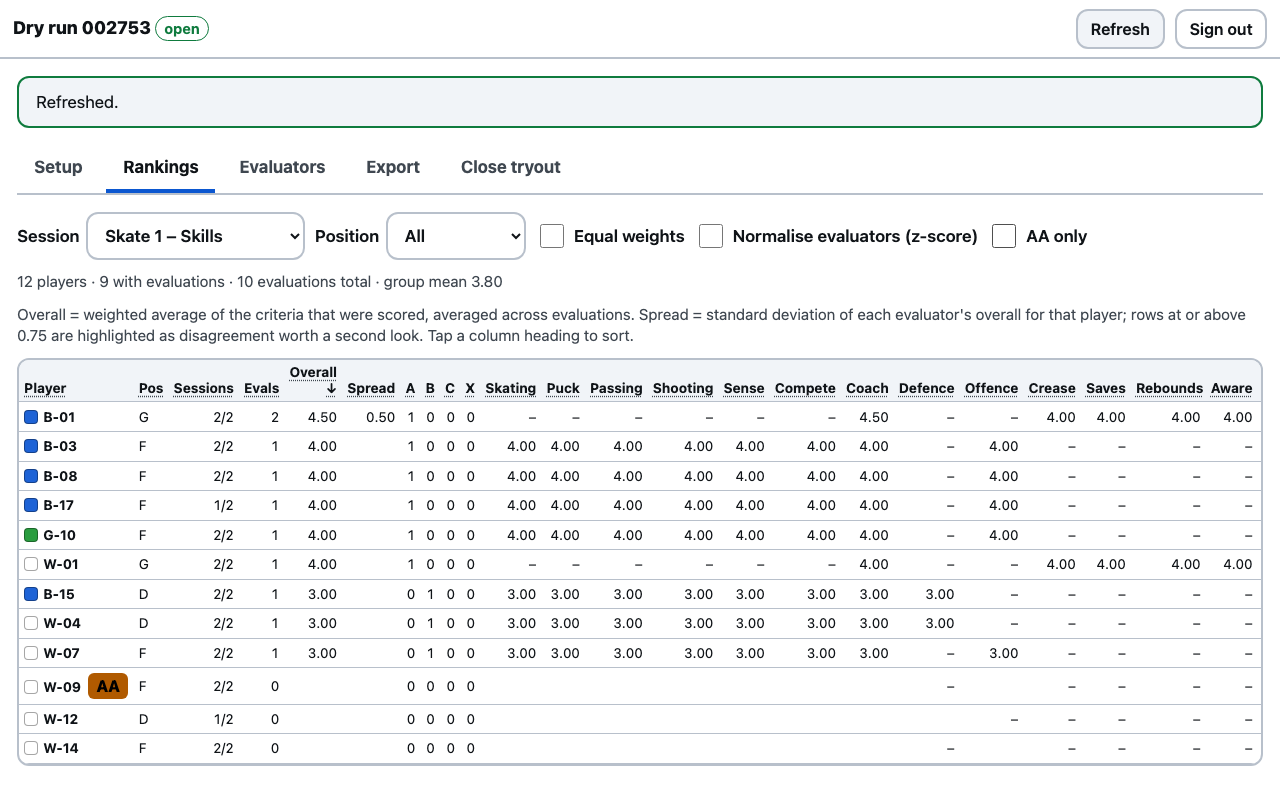
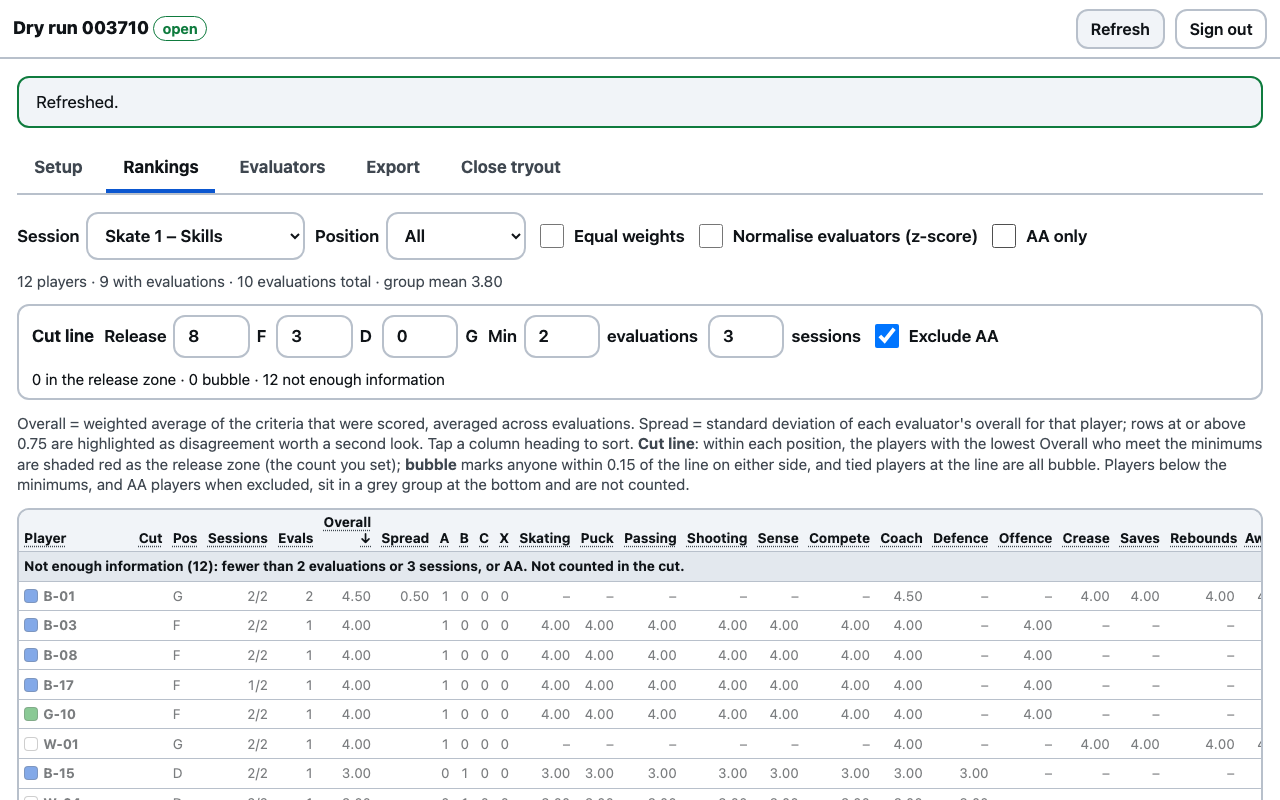
Rankings: cut line with release zone, bubble and minimums
Release counts per position (default 8 F / 3 D / 0 G), minimums of 2
evaluations and 3 sessions, AA excluded by default. Eligible players are
ranked by Overall within position; the lowest N are shaded as the release zone
with a line drawn above it for a single-position, Overall-sorted view. Players
within 0.15 of the line are bubble; a tie straddling the line is never split
(all tied stay keep + bubble, summary says so). Ineligible players sit in a
'Not enough information' group and are not counted. Rankings CSV gains a cut
column and records the settings. Settings remembered per browser.

Changed region(s): [[0.0, 0.375, 1.0, 1.0], [0.0938, 0.0312, 0.1562, 0.0625], [0.875, 0.8125, 0.9062, 0.8438]]

diff --git a/web/js/admin.js b/web/js/admin.js
@@ -28,6 +28,7 @@ const state = {
   evaluators: [],
   openTeam: null,
   rank: { sessionId: "all", position: "all", equalWeights: false, normalize: false, taggedOnly: false, sortKey: "overall", sortDir: "desc" },
+  cut: { F: 8, D: 3, G: 0, minEvals: 2, minSessions: 3, excludeAA: true },
   attendSessionId: null,
   view: { evaluatorId: null, sessionId: "all" },
   showInactive: false,
@@ -804,11 +805,56 @@ async function deleteEvaluator(e) {
 }
 
 // ----------------------------------------------------------------------------- Rankings
+const BUBBLE_MARGIN = 0.15;
+
+/**
+ * Cut line per position. Eligible = meets the minimums (and not AA when excluded) with an Overall.
+ * The lowest `cut[pos]` eligible players are "release"; others "keep". Anyone within BUBBLE_MARGIN of the
+ * line, and every player tied at the line, is "bubble". Sets r.cut, r.bubble, r.eligible on each row.
+ */
+function applyCut(rows) {
+  const c = state.cut;
+  const summary = { line: {}, release: 0, bubble: 0, insufficient: 0 };
+  for (const r of rows) {
+    r.eligible = r.overall !== null && r.n >= c.minEvals && r.attended >= c.minSessions && !(c.excludeAA && r.tag);
+    r.cut = r.eligible ? "keep" : "insufficient";
+    r.bubble = false;
+    if (!r.eligible) summary.insufficient += 1;
+  }
+  for (const pos of ["F", "D", "G"]) {
+    const n = Number(c[pos]) || 0;
+    const list = rows.filter((r) => r.eligible && r.position === pos).sort((a, b) => a.overall - b.overall); // lowest first
+    if (!n || !list.length) continue;
+    let count = Math.min(n, list.length);
+    let tiedAtLine = 0;
+    // A tie that straddles the line is never split by the app: those players stay "keep" and are all bubble.
+    if (list[count] && list[count].overall === list[count - 1].overall) {
+      const tieValue = list[count - 1].overall;
+      count = list.filter((r) => r.overall < tieValue).length;
+      tiedAtLine = list.filter((r) => r.overall === tieValue).length;
+    }
+    const releaseMax = count ? list[count - 1].overall : null;
+    const keepMin = list[count] ? list[count].overall : null;
+    const line = releaseMax === null ? keepMin : keepMin === null ? releaseMax : (releaseMax + keepMin) / 2;
+    summary.line[pos] = line;
+    if (tiedAtLine) summary.tied = (summary.tied || 0) + tiedAtLine;
+    list.forEach((r, i) => {
+      r.cut = i < count ? "release" : "keep";
+      const tied = tiedAtLine > 0 && r.overall === keepMin;
+      r.bubble = tied || Math.abs(r.overall - line) <= BUBBLE_MARGIN;
+      if (r.cut === "release") summary.release += 1;
+      if (r.bubble) summary.bubble += 1;
+    });
+  }
+  return summary;
+}
+
 function rankColumns(position) {
   const crits = position === "all" ? CRITERIA : criteriaFor(position);
   // Overall, spread and tier votes first so they are visible without horizontal scrolling; criteria after.
   return [
     { key: "playerNumber", label: "Player", num: false },
+    { key: "cut", label: "Cut", num: false },
     { key: "position", label: "Pos", num: false },
     { key: "attended", label: "Sessions", num: true },
     { key: "n", label: "Evals", num: true },
@@ -845,12 +891,30 @@ function renderRankings() {
     tr.append(th);
   }
   head.append(tr);
-  const sorted = sortRows(rows, state.rank.sortKey, state.rank.sortDir);
+  const cutSummary = applyCut(rows);
+  const sortedAll = sortRows(rows, state.rank.sortKey, state.rank.sortDir);
+  // Eligible players first (in the chosen order), then the not-enough-information group.
+  const sorted = [...sortedAll.filter((r) => r.eligible), ...sortedAll.filter((r) => !r.eligible)];
+  let lineDrawn = false;
+  let groupHeaderDone = false;
   for (const r of sorted) {
-    const row = el("tr", { class: r.spread !== null && r.spread >= SPREAD_THRESHOLD ? "disagree" : "" });
+    if (!r.eligible && !groupHeaderDone) {
+      groupHeaderDone = true;
+      body.append(el("tr", { class: "group-row" }, el("td", { colspan: cols.length }, `Not enough information (${cutSummary.insufficient}): fewer than ${state.cut.minEvals} evaluations or ${state.cut.minSessions} sessions${state.cut.excludeAA ? ", or AA" : ""}. Not counted in the cut.`)));
+    }
+    const cls = [r.spread !== null && r.spread >= SPREAD_THRESHOLD ? "disagree" : "", r.cut === "release" ? "release" : "", r.eligible ? "" : "insufficient"];
+    // Heavy line above the first release row when the table is sorted by Overall (high to low) for one position.
+    if (!lineDrawn && r.cut === "release" && state.rank.position !== "all" && state.rank.sortKey === "overall" && state.rank.sortDir === "desc") { cls.push("cut-line"); lineDrawn = true; }
+    const row = el("tr", { class: cls.filter(Boolean).join(" ") });
     for (const c of cols) {
       let v = getPath(r, c.key);
       let text;
+      if (c.key === "cut") {
+        const cell = el("td", {});
+        if (r.eligible) cell.append(el("span", { class: `pill ${r.cut}` }, r.cut));
+        if (r.bubble) cell.append(el("span", { class: "pill bubble", style: "margin-left:.3rem" }, "bubble"));
+        row.append(cell); continue;
+      }
       if (c.key === "playerNumber") { row.append(el("td", {}, el("span", { class: "swatch", style: `background:${swatchColour(r.colour)}` }), el("b", {}, r.playerNumber), r.tag ? el("span", { class: "tagpill", style: "margin-left:.4rem" }, r.tag) : null)); continue; }
       if (c.key === "attended") { row.append(el("td", { class: "num" }, `${r.attended}/${r.sessionsTotal}`)); continue; }
       if (c.crit) text = criteriaFor(r.position).some((x) => x.key === c.crit) ? fmt(v) : "–";
@@ -863,6 +927,21 @@ function renderRankings() {
   if (!sorted.length) body.append(el("tr", {}, el("td", { colspan: cols.length, class: "muted" }, "No active players.")));
   const evaluated = rows.filter((r) => r.n > 0).length;
   $("rSummary").textContent = `${rows.length} players · ${evaluated} with evaluations · ${state.evals.length} evaluations total · group mean ${fmt(stats.group.mean)}`;
+  const lines = Object.entries(cutSummary.line).map(([pos, v]) => `${pos} ${fmt(v)}`).join(" · ");
+  $("cutSummary").textContent = `${cutSummary.release} in the release zone${lines ? ` · line at ${lines}` : ""} · ${cutSummary.bubble} bubble${cutSummary.tied ? ` (${cutSummary.tied} tied at the line, not released: decide these)` : ""} · ${cutSummary.insufficient} not enough information`;
+}
+
+// Cut controls (remembered on this browser)
+const CUT_KEY = "ui:cut";
+try { Object.assign(state.cut, JSON.parse(localStorage.getItem(CUT_KEY) || "{}")); } catch { /* ignore */ }
+for (const [id, key, kind] of [["cutF", "F", "n"], ["cutD", "D", "n"], ["cutG", "G", "n"], ["cutMinEvals", "minEvals", "n"], ["cutMinSessions", "minSessions", "n"], ["cutExcludeAA", "excludeAA", "b"]]) {
+  const inp = $(id);
+  if (kind === "b") inp.checked = !!state.cut[key]; else inp.value = String(state.cut[key]);
+  inp.addEventListener(kind === "b" ? "change" : "input", () => {
+    state.cut[key] = kind === "b" ? inp.checked : Math.max(0, Number(inp.value) || 0);
+    try { localStorage.setItem(CUT_KEY, JSON.stringify(state.cut)); } catch { /* ignore */ }
+    renderRankings();
+  });
 }
 
 for (const [id, key] of [["rSession", "sessionId"], ["rPosition", "position"]]) {
@@ -939,14 +1018,16 @@ const today = () => new Date().toISOString().slice(0, 10);
 function rankingsCsv() {
   const { rows } = computeRankings();
   const crits = state.rank.position === "all" ? CRITERIA : criteriaFor(state.rank.position);
-  const header = ["player_number", "colour", "number", "position", "tag", "sessions_attended", "sessions_total", "evaluations", "evaluators",
+  applyCut(rows);
+  const header = ["player_number", "cut", "colour", "number", "position", "tag", "sessions_attended", "sessions_total", "evaluations", "evaluators",
     ...crits.map((c) => `avg_${c.key}`), "overall", "tier_A", "tier_B", "tier_C", "tier_X", "spread"];
   const sorted = sortRows(rows, state.rank.sortKey, state.rank.sortDir);
-  const data = sorted.map((r) => [r.playerNumber, r.colour, r.number, r.position, r.tag || "", r.attended, r.sessionsTotal, r.n, r.evaluators,
+  const data = sorted.map((r) => [r.playerNumber, r.eligible ? `${r.cut}${r.bubble ? " bubble" : ""}` : "insufficient", r.colour, r.number, r.position, r.tag || "", r.attended, r.sessionsTotal, r.n, r.evaluators,
     ...crits.map((c) => (r.crit[c.key] === null || r.crit[c.key] === undefined ? "" : fmt(r.crit[c.key], 3))),
     fmt(r.overall, 3), r.tiers.A, r.tiers.B, r.tiers.C, r.tiers.X, fmt(r.spread, 3)]);
   const meta = [`# ${state.tryout.name}`, `session=${state.rank.sessionId}`, `position=${state.rank.position}`,
-    `weights=${state.rank.equalWeights ? "equal" : "rubric"}`, `normalised=${state.rank.normalize}`, `exported=${today()}`];
+    `weights=${state.rank.equalWeights ? "equal" : "rubric"}`, `normalised=${state.rank.normalize}`,
+    `cut=F${state.cut.F}/D${state.cut.D}/G${state.cut.G}`, `min_evaluations=${state.cut.minEvals}`, `min_sessions=${state.cut.minSessions}`, `exclude_aa=${state.cut.excludeAA}`, `exported=${today()}`];
   return { name: `rankings-${slug(state.tryout.name)}-${today()}.csv`, text: csv([meta, header, ...data]) };
 }
 

diff --git a/tests/e2e/dry-run.js b/tests/e2e/dry-run.js
@@ -407,16 +407,33 @@ try {
   await admin.selectOption("#rSession", { index: 1 });
   const rows = admin.locator("#rankBody tr");
   await rows.first().waitFor();
-  const evaluated = await rows.evaluateAll((trs) => trs.filter((tr) => Number(tr.children[3].textContent) >= 1).length);
+  const evaluated = await rows.evaluateAll((trs) => trs.filter((tr) => !tr.classList.contains("group-row") && Number(tr.children[4].textContent) >= 1).length);
   assert(evaluated === 9, `expected 9 evaluated players in rankings, saw ${evaluated}`);
-  const total = await rows.count();
+  const total = await admin.locator("#rankBody tr:not(.group-row)").count();
   assert(total === 12, `expected 12 rows, saw ${total}`);
   const w12 = admin.locator('#rankBody tr', { hasText: "W-12" });
-  assert((await w12.locator("td").nth(2).textContent()) === "1/2", "W-12 attended 1 of 2 sessions (absent in 1, on Team 2 in 2)");
+  assert((await w12.locator("td").nth(3).textContent()) === "1/2", "W-12 attended 1 of 2 sessions (absent in 1, on Team 2 in 2)");
   const b17 = admin.locator('#rankBody tr', { hasText: "B-17" });
-  assert((await b17.locator("td").nth(2).textContent()) === "1/2", "B-17 played 1 of 2 (not dressed for the scrimmage)");
+  assert((await b17.locator("td").nth(3).textContent()) === "1/2", "B-17 played 1 of 2 (not dressed for the scrimmage)");
+
+  // Cut line: with the defaults (2 evals, 3 sessions) nobody qualifies in this short run; loosen to 1/1 and release 2 F
+  assert(/12 not enough information/.test(await admin.locator("#cutSummary").textContent()), `defaults exclude everyone in a 2-session run: ${await admin.locator("#cutSummary").textContent()}`);
+  await admin.fill("#cutMinEvals", "1"); await admin.fill("#cutMinSessions", "1"); await admin.fill("#cutF", "2"); await admin.fill("#cutD", "0");
+  await admin.selectOption("#rPosition", "F");
+  // Four forwards tie at 4.00 and one sits at 3.00: releasing 2 would split the tie, so only the 3.00 is released and the tie is bubble
+  const releaseRows = admin.locator("#rankBody tr.release");
+  assert((await releaseRows.count()) === 1, `1 forward in the release zone (tie not split), saw ${await releaseRows.count()}`);
+  assert(/W-07/.test(await releaseRows.first().textContent()), "the 3.00 forward is the one released");
+  assert((await admin.locator("#rankBody tr.cut-line").count()) === 1, "a line is drawn above the release zone when sorted by Overall for one position");
+  assert(/1 in the release zone/.test(await admin.locator("#cutSummary").textContent()) && /4 tied at the line/.test(await admin.locator("#cutSummary").textContent()), `summary explains the tie: ${await admin.locator("#cutSummary").textContent()}`);
+  assert((await admin.locator("#rankBody tr .pill.bubble").count()) === 4, "the four tied forwards are bubble");
+  assert((await admin.locator("#rankBody tr.group-row").count()) === 1, "unscored forwards are grouped as not enough information");
+  await admin.screenshot({ path: path.join(DOCS, "screenshot-admin-cut-line.png") });
+  await admin.selectOption("#rPosition", "all");
+  await admin.fill("#cutMinEvals", "2"); await admin.fill("#cutMinSessions", "3"); await admin.fill("#cutF", "8"); await admin.fill("#cutD", "3");
   await admin.check("#rTagged");
-  assert((await rows.count()) === 1 && /W-09/.test(await rows.first().textContent()), "AA-only filter shows just W-09");
+  const aaRows = admin.locator("#rankBody tr:not(.group-row)");
+  assert((await aaRows.count()) === 1 && /W-09/.test(await aaRows.first().textContent()), "AA-only filter shows just W-09");
   await admin.uncheck("#rTagged");
   await admin.screenshot({ path: path.join(DOCS, "screenshot-admin-rankings.png") });
   log("admin rankings show 9 evaluated players");

diff --git a/web/admin.html b/web/admin.html
@@ -159,7 +159,17 @@
       <label><input id="rTagged" type="checkbox"> AA only</label>
       <span id="rSummary" class="muted small"></span>
     </div>
-    <p class="small muted">Overall = weighted average of the criteria that were scored, averaged across evaluations. Spread = standard deviation of each evaluator's overall for that player; rows at or above <span id="spreadThreshold"></span> are highlighted as disagreement worth a second look. Tap a column heading to sort.</p>
+    <div class="toolbar" id="cutBar" style="border:2px solid var(--border);border-radius:var(--radius);padding:.5rem .75rem">
+      <b>Cut line</b>
+      <label>Release <input id="cutF" type="number" min="0" max="99" value="8" style="width:4.5em;min-height:40px"> F</label>
+      <label><input id="cutD" type="number" min="0" max="99" value="3" style="width:4.5em;min-height:40px"> D</label>
+      <label><input id="cutG" type="number" min="0" max="99" value="0" style="width:4.5em;min-height:40px"> G</label>
+      <label title="Players below these minimums are listed under 'Not enough information' and are not counted">Min <input id="cutMinEvals" type="number" min="0" max="99" value="2" style="width:4.5em;min-height:40px"> evaluations</label>
+      <label><input id="cutMinSessions" type="number" min="0" max="99" value="3" style="width:4.5em;min-height:40px"> sessions</label>
+      <label title="AA-tagged players are a separate decision"><input id="cutExcludeAA" type="checkbox" checked> Exclude AA</label>
+      <span id="cutSummary" class="small"></span>
+    </div>
+    <p class="small muted">Overall = weighted average of the criteria that were scored, averaged across evaluations. Spread = standard deviation of each evaluator's overall for that player; rows at or above <span id="spreadThreshold"></span> are highlighted as disagreement worth a second look. Tap a column heading to sort. <b>Cut line</b>: within each position, the players with the lowest Overall who meet the minimums are shaded red as the release zone (the count you set); <b>bubble</b> marks anyone within 0.15 of the line on either side, and tied players at the line are all bubble. Players below the minimums, and AA players when excluded, sit in a grey group at the bottom and are not counted.</p>
     <div class="table-wrap" style="max-height:75vh"><table id="rankTable"><thead id="rankHead"></thead><tbody id="rankBody"></tbody></table></div>
   </section>
 

diff --git a/web/css/app.css b/web/css/app.css
@@ -202,6 +202,14 @@ th.sortable { text-decoration: underline dotted var(--muted); text-underline-off
 th.sorted-asc::after { content: " ↑"; color: var(--fg); } th.sorted-desc::after { content: " ↓"; color: var(--fg); }
 td.num, th.num { text-align: right; font-variant-numeric: tabular-nums; }
 tr.disagree td { background: color-mix(in srgb, var(--warn) 22%, transparent); }
+tr.release td { background: color-mix(in srgb, var(--bad) 18%, transparent); }
+tr.release.disagree td { background: color-mix(in srgb, var(--bad) 30%, transparent); }
+tr.cut-line td { border-top: 4px solid var(--bad); }
+tr.insufficient td { opacity: .55; }
+tr.group-row td { background: var(--surface-2); font-weight: 700; }
+.pill.release { border-color: var(--bad); color: var(--bad); }
+.pill.keep { border-color: var(--ok); color: var(--ok); }
+.pill.bubble { border-color: var(--warn); color: var(--warn); }
 tr.inactive td { opacity: .5; }
 .pill { display: inline-block; padding: .1rem .5rem; border-radius: 999px; border: 1px solid var(--border); font-size: .85rem; font-weight: 700; }
 .pill.ok { border-color: var(--ok); color: var(--ok); } .pill.bad { border-color: var(--bad); color: var(--bad); }

diff --git a/docs/RUNNING-A-TRYOUT.md b/docs/RUNNING-A-TRYOUT.md
@@ -239,6 +239,26 @@ to sort. Two more toggles:
 - **Normalise evaluators** adjusts for a consistently harsh or generous evaluator by re-centring each evaluator's
   scores on the group average before combining them. It only kicks in for evaluators with at least three scores.
 
+### The cut line
+
+When it is time to release players, use the **Cut line** row above the table. Enter how many to release per
+position (for example 8 F, 3 D, 0 G) and the minimum a player needs to be counted: by default **2 evaluations and
+3 sessions**. Then:
+
+- Players who meet the minimums are ranked by Overall within their position, and the lowest ones, as many as you
+  entered, are shaded red as the **release zone**. With the Position filter set to one position and the table
+  sorted by Overall, a heavy red line is drawn above the zone.
+- **bubble** marks anyone within 0.15 of the line on either side. If several players are tied exactly at the
+  line, the app never splits them: none of the tied players is released, they are all marked bubble, and the
+  summary line says so. Those are the players to decide with the coaches, or to watch at the last skate.
+- Players below the minimums, and AA-tagged players while *Exclude AA* is ticked, sit in a grey **Not enough
+  information** group at the bottom and are not counted. AA players are a separate decision anyway.
+- The cut uses whatever the table shows, so the weights and normalise toggles apply, and the rankings CSV gets a
+  `cut` column (keep, release, bubble, insufficient) with the settings recorded on its first line.
+
+The release zone is only as good as the ice time behind it: keep an eye on the Sessions and Evals columns next
+to the shading.
+
 ### Highlighted rows
 
 A highlighted spread means the evaluators saw different players or different things. That is information, not a
